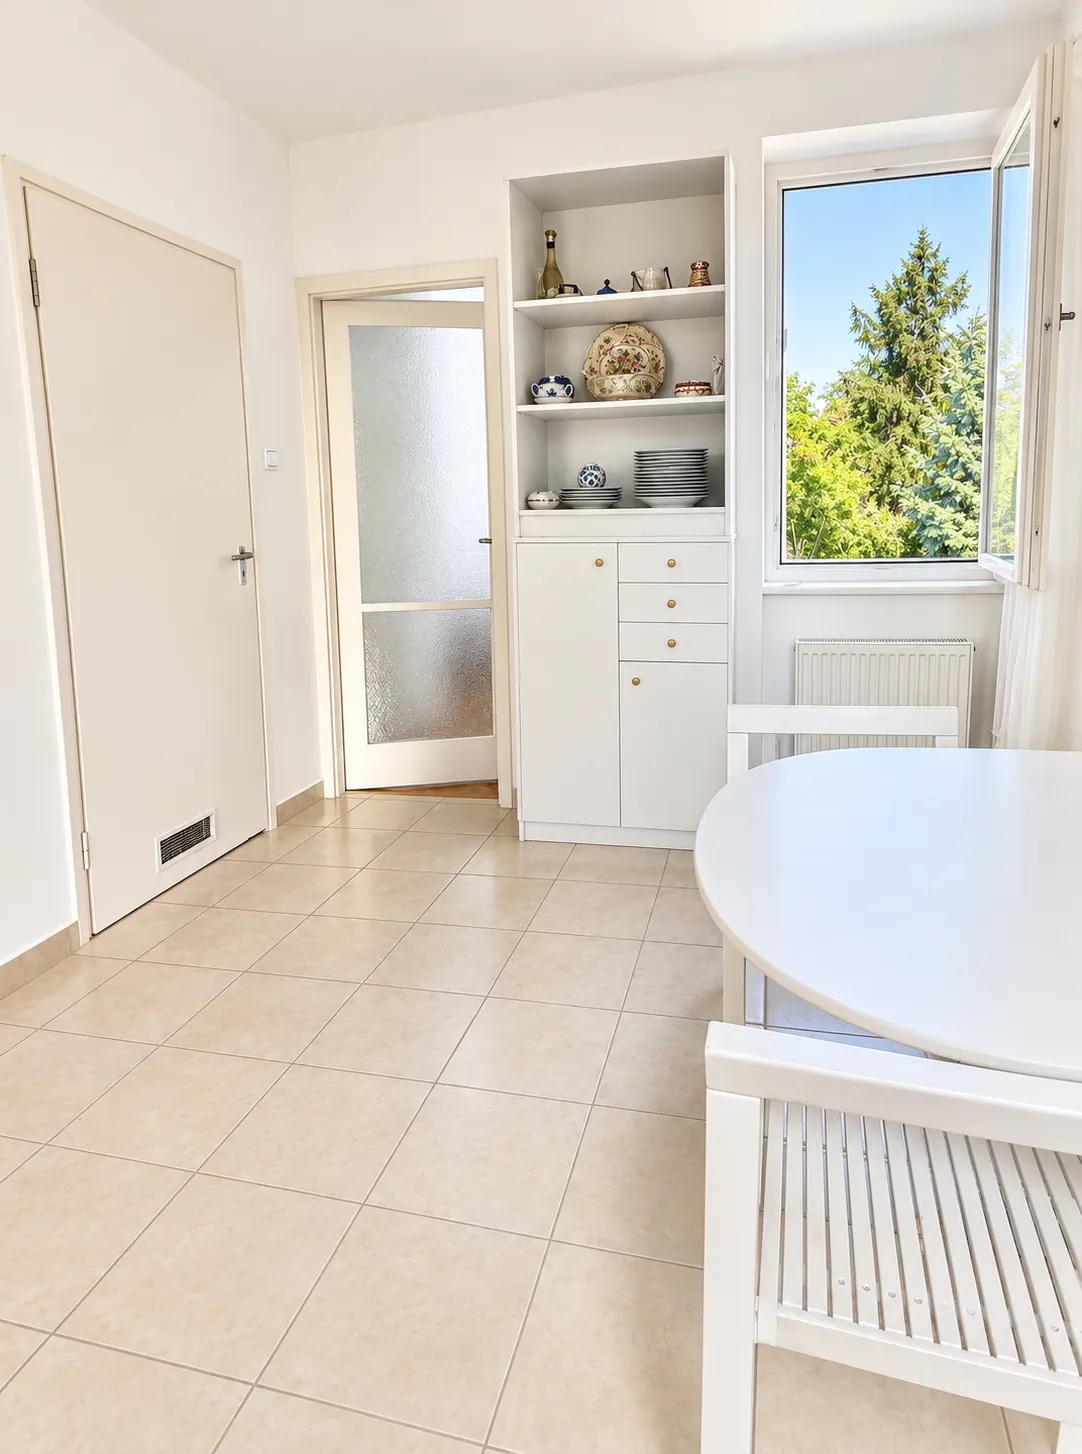
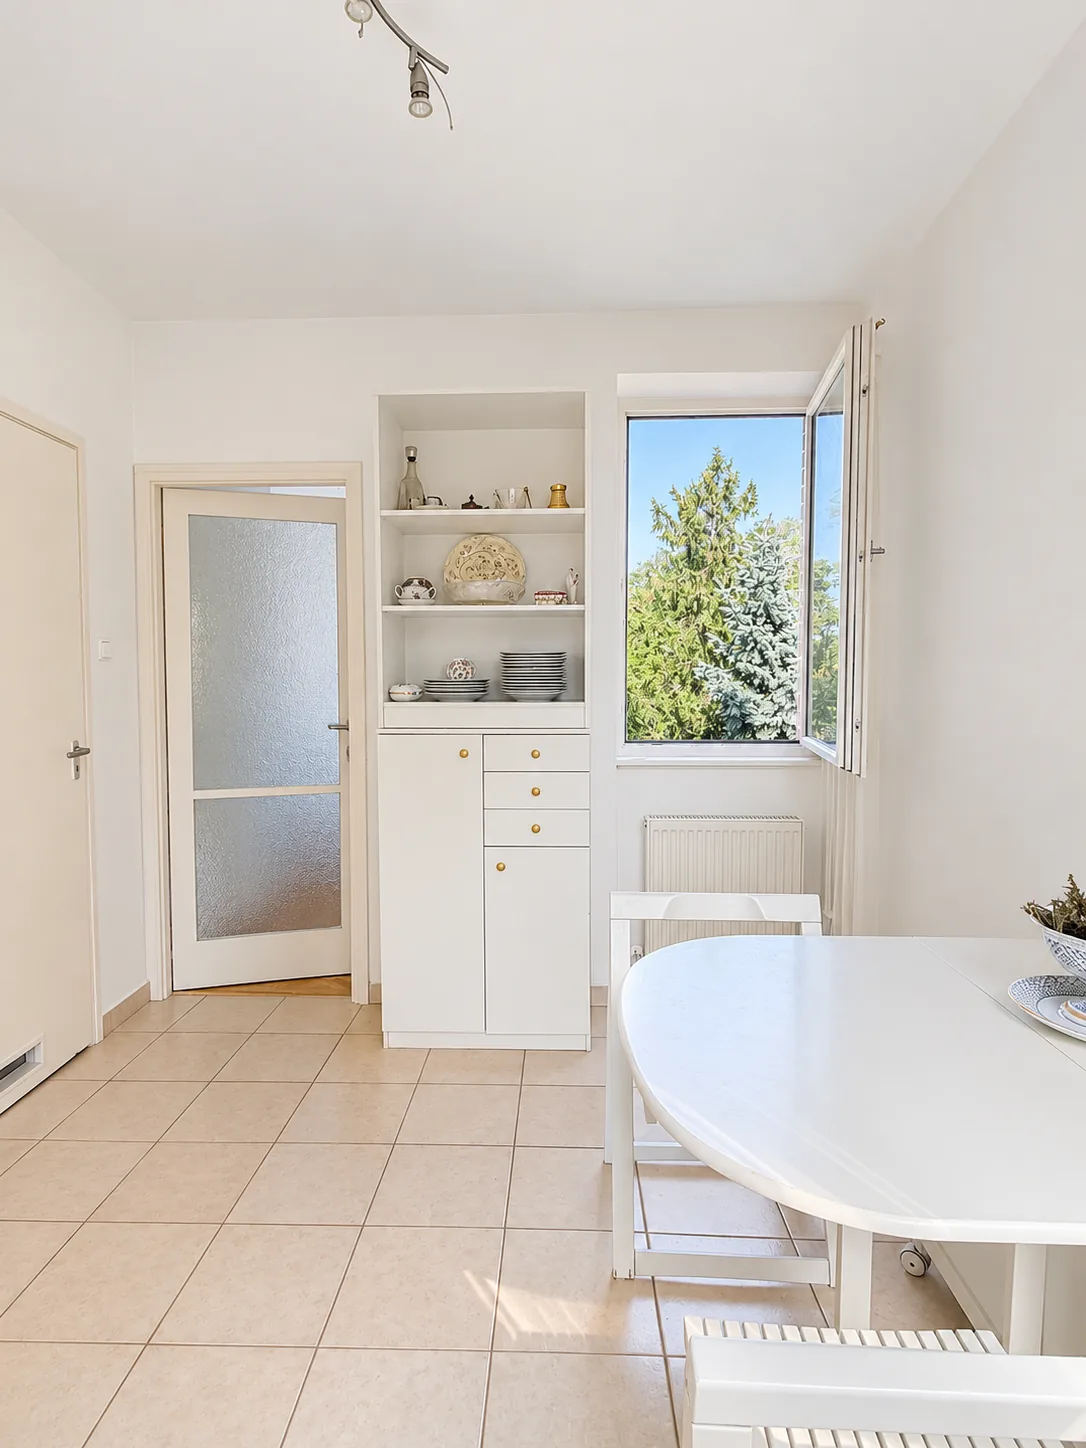
Gallery in requested order with natural photo shapes; updated dining and garden-view photos; Lil G Web Designs footer credit
Claude-Session: https://claude.ai/code/session_012przJNhQcw6F4W5r9Z3u9W

diff --git a/app.js b/app.js
@@ -378,41 +378,40 @@ function renderPrice() {
 }
 
 /* ---------------- Gallery + lightbox ---------------- */
-const PHOTOS = [
-  ["balcony-sunset", "g.balconySunset", "wide"],
-  ["bedroom-a", "g.bedroom", "tall"],
-  ["bedroom-b", "g.bedroom", ""],
-  ["garden", "g.garden", "tall"],
-  ["balcony-day", "g.balconyDay", "wide"],
-  ["living-1", "g.living", "tall"],
-  ["living-2", "g.living", ""],
-  ["living-3", "g.living", ""],
-  ["bedroom2-1", "g.bedroom2", "tall"],
-  ["bedroom2-2", "g.bedroom2", ""],
-  ["bedroom2-3", "g.bedroom2", ""],
-  ["view-bedroom-1", "g.viewBedroom", ""],
-  ["view-bedroom-2", "g.viewBedroom", ""],
-  ["kitchen-1", "g.kitchen", ""],
-  ["kitchen-2", "g.kitchen", ""],
-  ["dining-1", "g.dining", ""],
-  ["dining-2", "g.dining", ""],
-  ["bath-tub", "g.bathTub", ""],
-  ["bath-sinks", "g.bathSinks", ""],
-  ["garden-2", "g.garden", ""],
-  ["street", "g.street", "big"]
+const PHOTOS = [ // [file, caption key, aspect ratio (w/h)]
+  ["balcony-sunset", "g.balconySunset", 1.333],
+  ["living-1", "g.living", 0.75],
+  ["hero-frontage", "g.street", 0.75],
+  ["balcony-day", "g.balconyDay", 1.333],
+  ["bedroom-a", "g.bedroom", 0.75],
+  ["bedroom-b", "g.bedroom", 0.75],
+  ["bedroom2-1", "g.bedroom2", 0.75],
+  ["bedroom2-2", "g.bedroom2", 0.75],
+  ["bedroom2-3", "g.bedroom2", 0.75],
+  ["view-bedroom-2", "g.viewBedroom", 0.75],
+  ["view-bedroom-1", "g.viewBedroom", 0.75],
+  ["living-3", "g.living", 0.75],
+  ["living-2", "g.living", 0.75],
+  ["dining-1", "g.dining", 0.75],
+  ["kitchen-1", "g.kitchen", 0.75],
+  ["kitchen-2", "g.kitchen", 0.75],
+  ["dining-2", "g.dining", 0.75],
+  ["bath-sinks", "g.bathSinks", 0.75],
+  ["bath-tub", "g.bathTub", 0.75],
+  ["garden", "g.garden", 0.75],
+  ["garden-2", "g.garden", 0.75],
+  ["street", "g.street", 0.75]
 ];
 function renderGallery() {
   const g = document.getElementById("galleryGrid");
   g.innerHTML = "";
   const shown = new Set(); // caption only the first photo of each kind
-  PHOTOS.forEach(([f, k, cls], i) => {
+  PHOTOS.forEach(([f, k, ar], i) => {
     const b = document.createElement("button");
-    if (cls) b.className = cls;
+    b.style.setProperty("--ar", ar);
     const cap = shown.has(k) ? "" : `<span class="cap">${esc(t(k))}</span>`;
     shown.add(k);
-    // larger tiles get the full-size file so they stay sharp
-    const src = cls ? `/img/${f}.webp` : `/img/${f}-sm.webp`;
-    b.innerHTML = `<img src="${src}" alt="${esc(t(k))}" loading="lazy">${cap}`;
+    b.innerHTML = `<img src="/img/${f}-sm.webp" srcset="/img/${f}-sm.webp 700w, /img/${f}.webp 1800w" sizes="(max-width: 700px) 60vw, 34vw" alt="${esc(t(k))}" loading="lazy">${cap}`;
     b.addEventListener("click", () => openLb(i, PHOTOS));
     g.appendChild(b);
   });

diff --git a/styles.css b/styles.css
@@ -282,3 +282,15 @@ h3{font-size:1.35rem}
 .gallery .big{grid-column:span 2;grid-row:span 2}
 .gallery .big img{object-position:50% 45%}
 @media (max-width:900px){.gallery .big{grid-row:span 3}}
+
+/* gallery: justified rows, every photo keeps its own shape (no cropping, no stretching) */
+.gallery{display:flex!important;flex-wrap:wrap;gap:.7rem;grid-template-columns:none;grid-auto-rows:auto}
+.gallery::after{content:"";flex-grow:999}
+.gallery button{flex:var(--ar) 1 calc(var(--ar) * 250px);aspect-ratio:var(--ar);grid-column:auto!important;grid-row:auto!important}
+.gallery button img{object-fit:cover}
+@media (max-width:900px){.gallery{gap:.5rem}.gallery button{flex-basis:calc(var(--ar) * 150px)}}
+.credit{margin-top:1.4rem;font:italic 500 1.05rem var(--serif);letter-spacing:.02em;color:var(--ink)}
+.credit em{font-style:italic}
+.credit a{color:#c2185b;text-decoration:none;font-style:italic;border-bottom:1px solid rgba(194,24,91,.3)}
+.credit a:hover{border-color:#c2185b}
+.credit .heart{font-style:normal;font-size:.9em}

diff --git a/index.html b/index.html
@@ -289,6 +289,7 @@
 <footer class="footer">
   <p>Szirtes út 26/B · 1016 Budapest</p>
   <p class="small" data-i18n="footer.disclaimer"></p>
+  <p class="credit"><em>Designed by Lil G Web Designs</em> <span class="heart">💗</span> <a href="https://www.lilgweb.com" target="_blank" rel="noopener">www.lilgweb.com</a> <span class="heart">💗</span></p>
 </footer>
 
 <div class="lightbox" id="lightbox" hidden>
